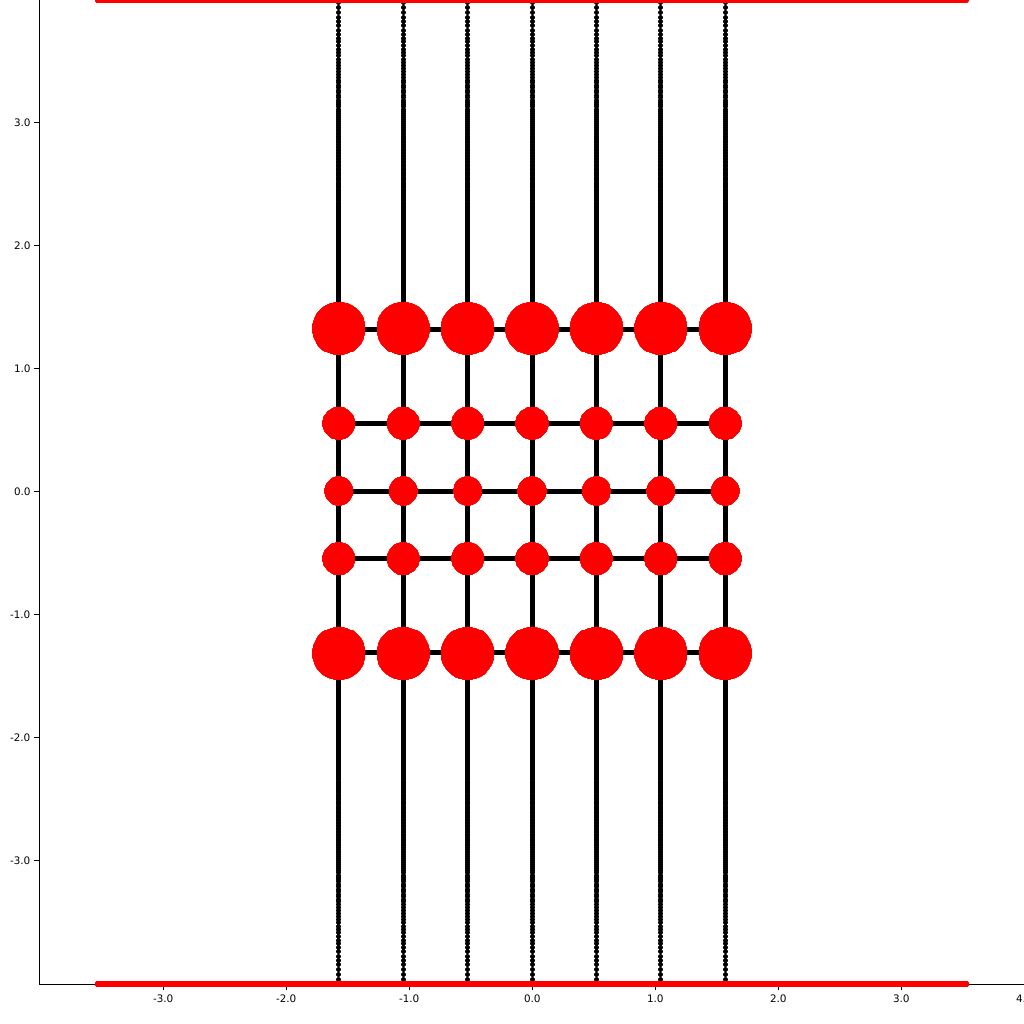
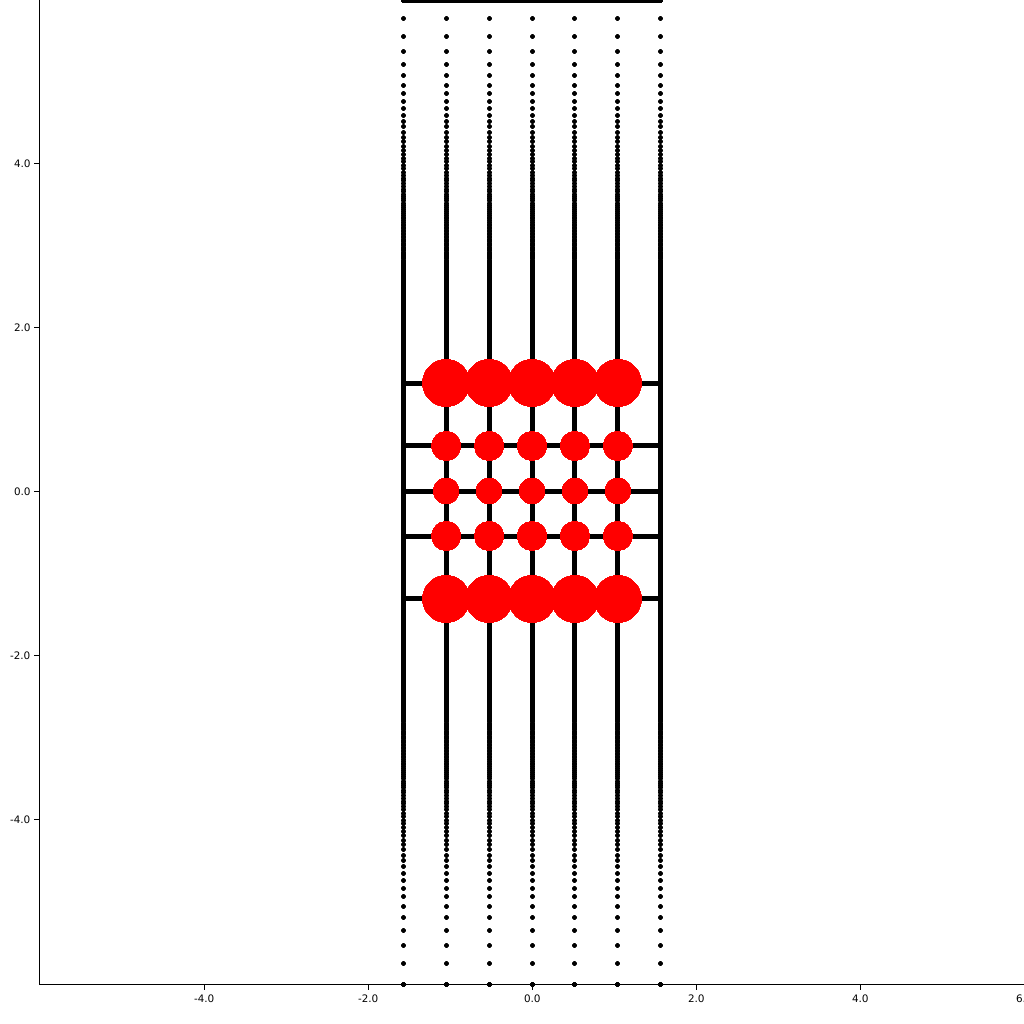
Improved tissot indicatrix calculations
Calculations now don't need to compare "equality" between floats
because it just accepts points that are less than a specific value.

Changed region(s): [[0.0938, 0.0, 0.9375, 0.9688]]

diff --git a/src/main.rs b/src/main.rs
@@ -15,7 +15,6 @@ use coord_plane::LatLonPoint;
 use map_bounds::MapBounds;
 use map_bounds::BoundLocation;
 
-const INDICATRIX_SIZE: f64 = 0.00001;
 const GEN_INDIC: bool = true;
 
 
@@ -32,9 +31,11 @@ fn main() -> Result<(), Box<dyn std::error::Error>> {
     //Size of the graph.
     //set guess_bound to true if you want it to be guessed based off the 
     //bounds of the projection with bound as an extenstion
-    let guess_bound = true;
-    let force_normal = true;
-    let bound = 0.5;
+    //
+    //
+    //Note that conformal projections will have non-circular indicatrices if
+    //the bounds aren't square
+    let bound = 6.0;
 
     //Add parallels and meridians
     let lat_lon_points: Vec<LatLonPoint> = coord_plane::sphere_coords(num_lines, num_points);
@@ -46,7 +47,7 @@ fn main() -> Result<(), Box<dyn std::error::Error>> {
     let mapping_function: Box<dyn std::ops::Fn(std::vec::Vec<LatLonPoint>) -> std::vec::Vec<CartPoint>> = 
         //Box::new(|vals| projections::simple_equidistant_conic(vals.to_vec(), FRAC_PI_2 * (3.0/4.0), FRAC_PI_2 * (1.0/4.0)));
         //Box::new(|vals| projections::bonne(vals, FRAC_PI_2));
-        //Box::new(projections::mercator);
+        Box::new(projections::mercator);
         //Box::new(projections::equirectangular); 
         //Box::new(projections::sinusoidal);
         //Box::new(|vals| projections::lambert_conformal_conic(vals.to_vec(), FRAC_PI_4, PI * 12.0f64.recip()));
@@ -68,7 +69,7 @@ fn main() -> Result<(), Box<dyn std::error::Error>> {
  
     
     let bounds = MapBounds::new(
-        &mapping_function, BoundLocation::MaxXandY).add_size(bound)
+        &mapping_function, BoundLocation::Zeros).add_size(bound)
         .to_normal_vals(10.0);
 
     let upper_x = bounds.upper_x;
@@ -98,12 +99,10 @@ fn main() -> Result<(), Box<dyn std::error::Error>> {
             .map(|point| Circle::new(point.to_tuple(), 2, BLACK.filled())),
     )?;
 
-
     if GEN_INDIC {
-        let area_to_check = 0.4;
-        let threshold = 0.01;
-        let indic = tissot_indicatrix::gen_indicatrices(Box::new(mapping_function), num_lines, num_points,
-            area_to_check, threshold);
+        let area_to_check = 0.02;
+        let indic_radius = 0.1 / 180.0 * PI;  // One tenth of a deg
+        let indic = tissot_indicatrix::gen_indicatrices(Box::new(mapping_function), num_lines, num_points, area_to_check, indic_radius);
         scatter_ctx.draw_series(
             indic.iter()
                 .map(|point| Circle::new(point.to_tuple(), 2, RED.filled()))

diff --git a/src/circle.rs b/src/circle.rs
@@ -30,14 +30,16 @@ impl Circle {
     // area_from_center = pi/8
     // diff... = 0.02
     pub fn to_indicatrix(&self, num_points_to_check: usize,
-                         area_from_center: f64, diff_between_angle_and_calculated: f64
-                         ) -> super::tissot_indicatrix::Indicatrix {
+                         area_from_center: f64) -> super::tissot_indicatrix::Indicatrix {
         super::tissot_indicatrix::Indicatrix {
             points: {
                 //These points all have the same great circle distance from the center
 
                 // angle from center of sphere =
                 //    acos(sin(φ1)sin(φ2) + cos(φ1)cos(φ2)cos(|λ1-λ2|)
+                //
+                // This means you can add all points where the angle is less than sigma,
+                // and get an approximation of the "right" values
 
                 let sigma = self.radius;
 
@@ -45,16 +47,11 @@ impl Circle {
 
                 //Idea is this:
                 //if (rand_point statisfies 
-                //    angle == acos(sin(φ1)sin(φ2) + cos(φ1)cos(φ2)cos(|λ1-λ2|))) {
+                //    angle > acos(sin(φ1)sin(φ2) + cos(φ1)cos(φ2)cos(|λ1-λ2|))) {
                 //    add point
                 //}
                 gen_guess_points(self.center, num_points_to_check, area_from_center).iter().filter(
-                |test_point| {
-                    f64_in_tolerance(
-                        sigma, 
-                        great_circle_dist(**test_point, self.center),
-                        diff_between_angle_and_calculated)
-                }).map(|x| *x)
+                |test_point| great_circle_dist(**test_point, self.center) < sigma).map(|x| *x)
                 .collect()
 
             },
@@ -83,6 +80,3 @@ fn gen_guess_points(start_point: LatLonPoint, points_to_check: usize, tolerance:
 }
 
 
-fn f64_in_tolerance(num1: f64, num2: f64, tolerance: f64) -> bool {
-    (num1-num2).abs() < tolerance
-}

diff --git a/src/tissot_indicatrix.rs b/src/tissot_indicatrix.rs
@@ -37,15 +37,16 @@ impl Indicatrix {
 }
 
 
-pub fn gen_indicatrices(mapping_function: Box<dyn Fn(Vec<LatLonPoint>) -> Vec<CartPoint>>, num_lines: usize, num_points: usize, area_to_check: f64, threshold: f64) -> Vec<CartPoint> {
+pub fn gen_indicatrices(mapping_function: Box<dyn Fn(Vec<LatLonPoint>) -> Vec<CartPoint>>, num_lines: usize, 
+                        num_points: usize, area_to_check: f64, radius: f64) -> Vec<CartPoint> {
     intersections_of_pars_and_merids(num_lines).iter()
         .map(|p| 
              Circle { 
                  center: *p,
-                 radius: super::INDICATRIX_SIZE,
+                 radius: radius,
                  num_points: num_points,
-             }.to_indicatrix(num_points, area_to_check, threshold).project(&mapping_function)
-             .expand(5.0))
+             }.to_indicatrix(num_points, area_to_check).project(&mapping_function)
+             .expand(75.0))
     .flatten().collect()
 }
 

diff --git a/src/projections.rs b/src/projections.rs
@@ -121,6 +121,7 @@ pub fn lambert_conformal_conic(points: Vec<LatLonPoint>,
 
 
 
+#[allow(dead_code)]
 pub fn loximuthal(points: Vec<LatLonPoint>, central_lat: f64) -> Vec<CartPoint> {
     let phi_1 = central_lat;
 
